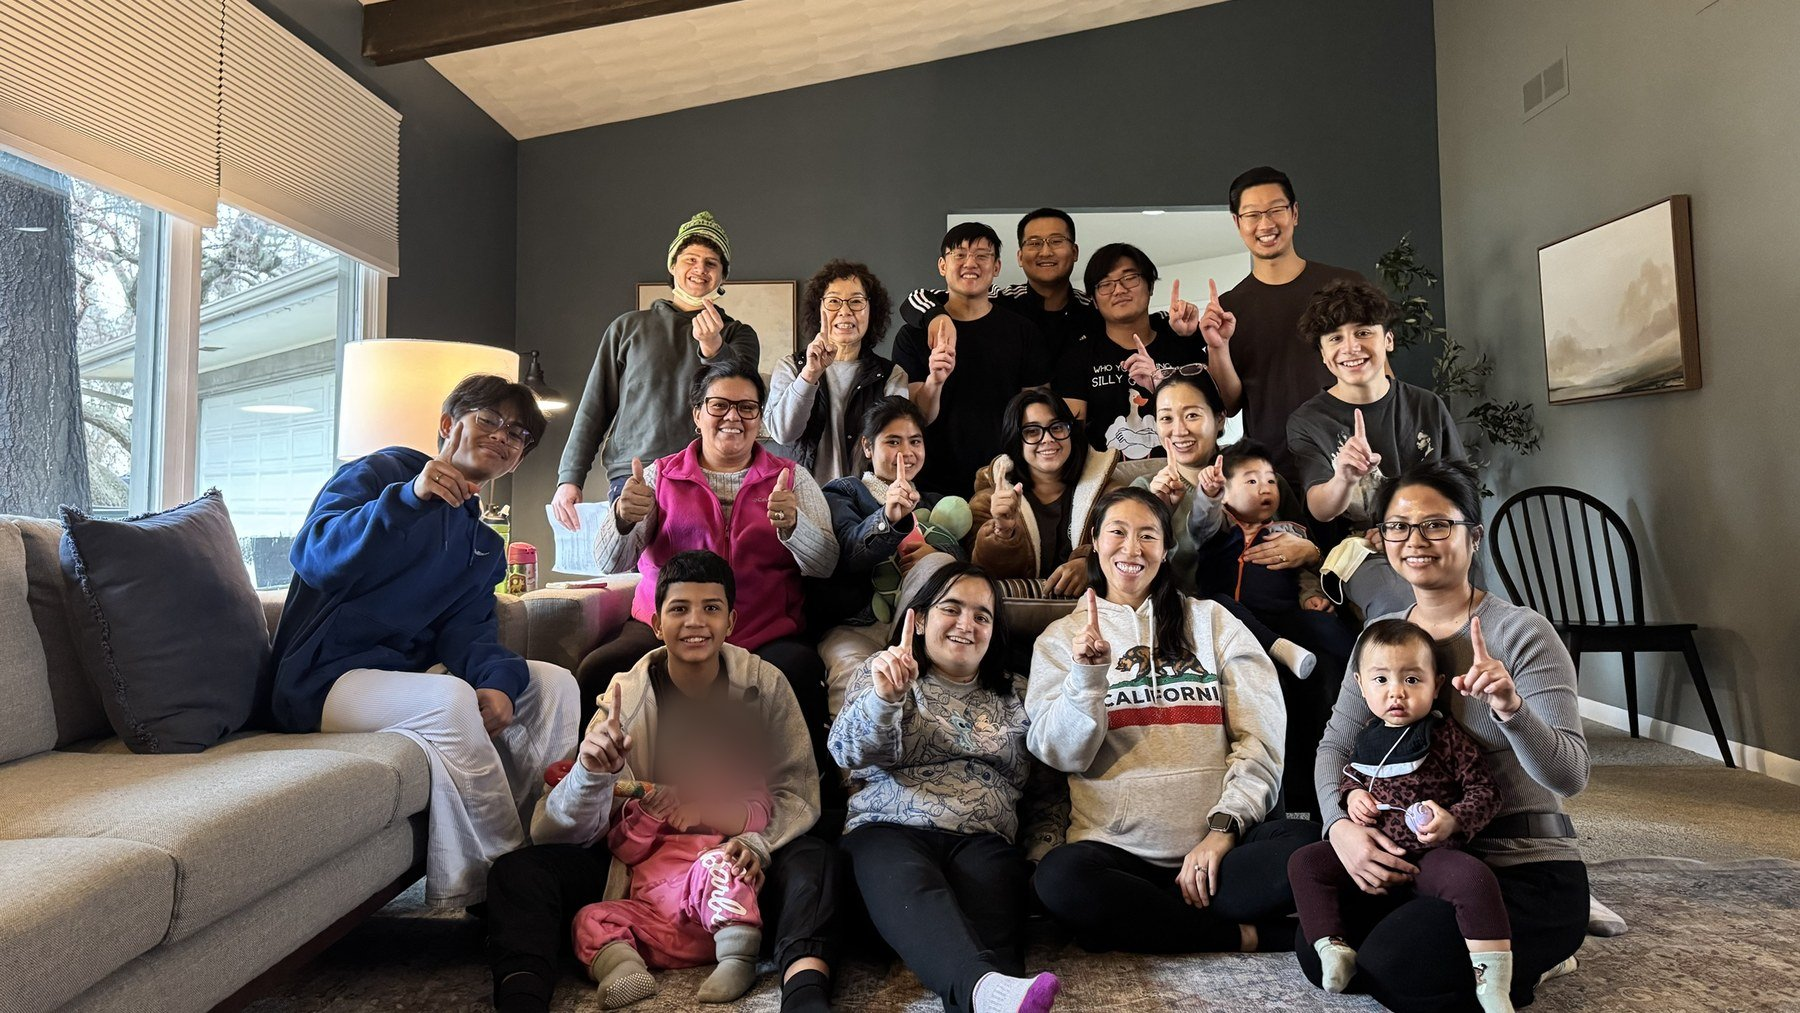
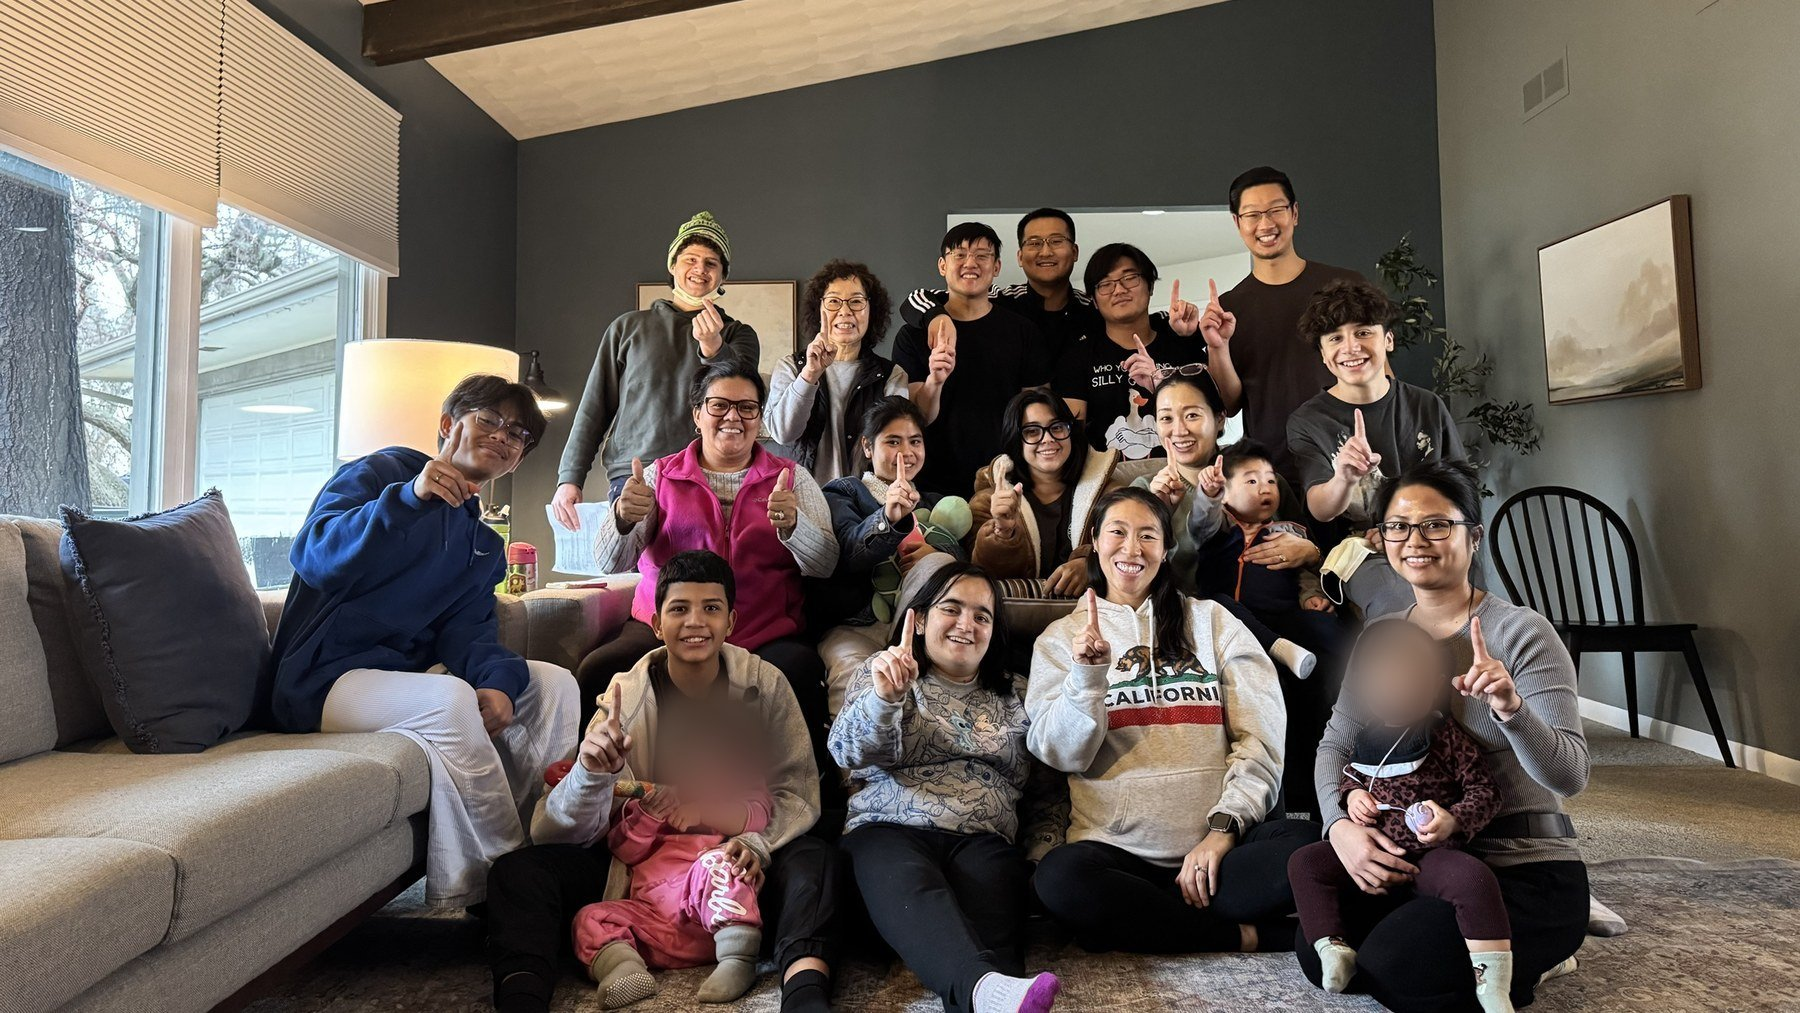
A second family's children: blur in the group photo, new Home card
A second family asked that their children not be shown.

- Home page group photo: the girl at the bottom right now has her face
  blurred, as the first family's girl already does.
- Home page Children card: it showed their daughter in pink, who is half
  of that small photo, so it now uses the Ministries Children photo.

The Visit photo is next, once Joseph chooses how to handle it.

Claude-Session: https://claude.ai/code/session_01Df2kUDHqcTaF3H2Uj15pSi

Changed region(s): [[0.7156, 0.5814, 0.8089, 0.7345]]

diff --git a/ko/index.html b/ko/index.html
@@ -152,7 +152,7 @@
     </div>
     <ul class="cards">
       <li class="card">
-        <img class="card__image" src="../assets/img/children-sanctuary-left.jpg" alt="" loading="lazy">
+        <img class="card__image" src="../assets/img/children-sanctuary-right.jpg" alt="" loading="lazy">
         <div class="card__body">
           <h3 class="card__title">어린이</h3>
           <p>유아부터 초등학생까지, 주일에 나이에 맞는 반에서 즐겁고 안전하게 말씀을 배웁니다.</p>

diff --git a/index.html b/index.html
@@ -135,7 +135,7 @@
     </div>
     <ul class="cards">
       <li class="card">
-        <img class="card__image" src="assets/img/children-sanctuary-left.jpg" alt="" loading="lazy">
+        <img class="card__image" src="assets/img/children-sanctuary-right.jpg" alt="" loading="lazy">
         <div class="card__body">
           <h3 class="card__title">Children</h3>
           <p>Sunday classes and a safe, joyful space for children from nursery through grade school.</p>
